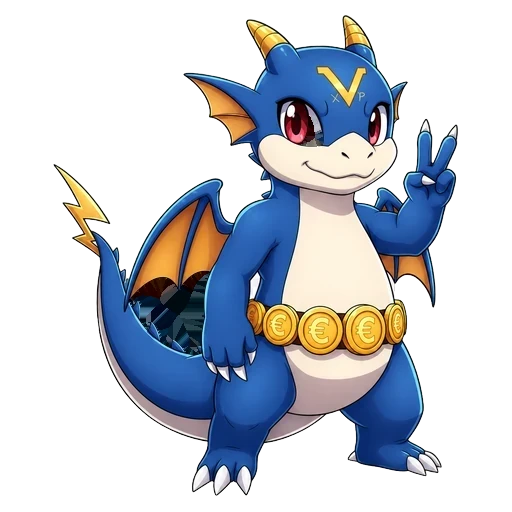
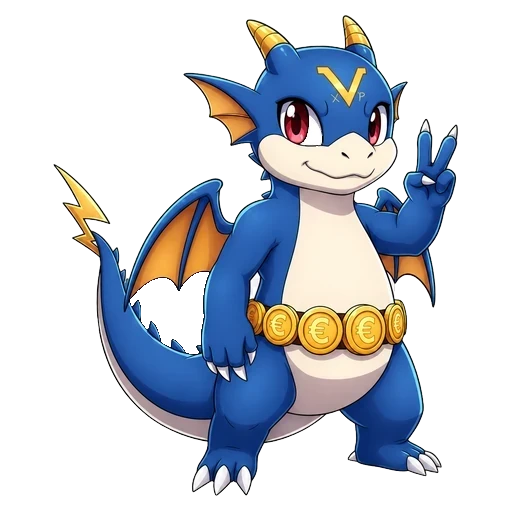
fix(mascot): olho restaurado da ARTE ORIGINAL, remendos v8 revertidos -> v9
O v8 tapou os buracos com a cor do vizinho mais proximo — em tamanho
real via-se um borrao sob o olho e uma mancha esborratada sob a asa
(feedback direto do dono, com razao). Refeito como deve ser:

- Os 5 webp voltam aos bytes v7 (a transparencia dos bolsos asa/braco/
  cinto e LEGITIMA — confirmei contra as fontes de junho em Mascotes/:
  la dentro esta checkerboard, nao arte; o suposto defeito sob a asa
  era o proprio remendo v8).
- SO o olho do voltix/3 era arte comida (387px acima do limiar de
  200px do repair v7). Restaurado por transplante da fonte original
  (Mascotes/PNG VOLTIX/VOLTIX.png): mapeamento afim fonte-1254 →
  shipped-512 ajustado por otimizacao (erro RGB 8.4), amostragem
  bilinear, so nos pixeis do buraco. Sem passes automaticos.
- Verificacao em RESOLUCAO TOTAL sobre navy e preto antes do ship
  (a licao do CLAUDE.md que o v8 ignorou — o dano era invisivel em
  thumbnails). Dois olhos intactos, transplante sem emenda.
- Cache-bust v8→v9 (MASCOT_ASSET_VER + 2 hardcoded).

Nota: o teste numerico checker-vs-arte e INUTIL para arte branca
(esclera 253,253,254 = mesma assinatura do checker) — a triagem tem
de ser sempre visual, buraco a buraco, com o contorno sobre a fonte.

Changed region(s): [[0.25, 0.5312, 0.4062, 0.6875], [0.5938, 0.2188, 0.6562, 0.2812]]

diff --git a/src/components/landing/LandingMascotShowcase.tsx b/src/components/landing/LandingMascotShowcase.tsx
@@ -58,7 +58,7 @@ function EvoRow({
             <div key={evo} className="text-center">
               <div className="relative w-full aspect-square bg-gradient-to-b from-white/5 to-transparent rounded-xl flex items-center justify-center border border-white/5 overflow-hidden mb-1.5">
                 <Image
-                  src={`/mascot/${gender}/${evo}.webp?v=8`}
+                  src={`/mascot/${gender}/${evo}.webp?v=9`}
                   alt={t('landing.mascot.evo_alt', { name, evo, label })}
                   width={96}
                   height={96}

diff --git a/src/components/voltix/MascotCreature.tsx b/src/components/voltix/MascotCreature.tsx
@@ -54,7 +54,7 @@ interface Props {
  *  `?v=` is a cache-buster — the mascot WebPs were re-cut (clean alpha, no
  *  white fringe) but keep the same filenames, so browsers/CDN would serve the
  *  stale cached version without it. Bump the number when the art changes. */
-const MASCOT_ASSET_VER = '8'
+const MASCOT_ASSET_VER = '9'
 function assetPath(gender: MascotGender, evo: number): string {
   return `/mascot/${gender}/${evo}.webp?v=${MASCOT_ASSET_VER}`
 }

diff --git a/src/components/landing/LandingHero.tsx b/src/components/landing/LandingHero.tsx
@@ -260,7 +260,7 @@ export async function LandingHero() {
                       }`}
                     >
                       <Image
-                        src={`/mascot/voltix/${n}.webp?v=8`}
+                        src={`/mascot/voltix/${n}.webp?v=9`}
                         alt={t('landing.hero.evo_alt', { n })}
                         width={80}
                         height={80}
